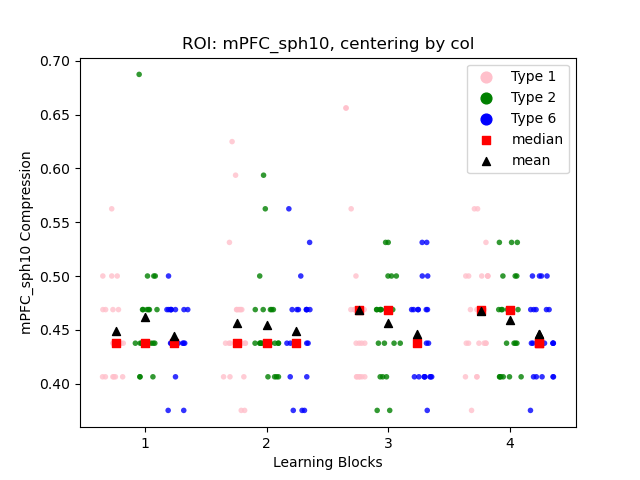
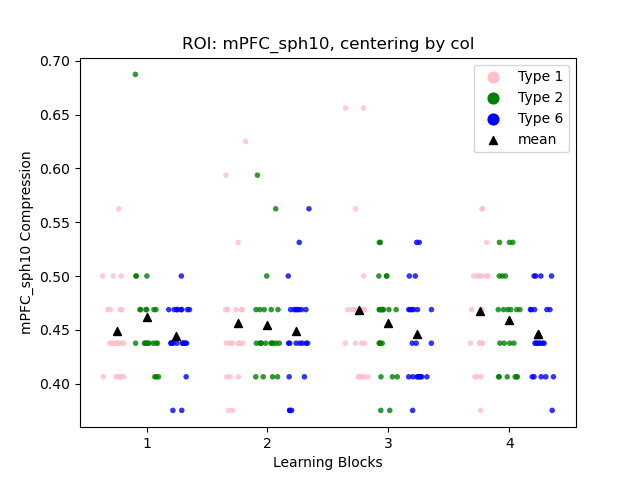
change code: rm median

diff --git a/pca.py b/pca.py
@@ -249,7 +249,7 @@ def compression_execute(roi, subs, runs, tasks, num_processes, centering_by):
         q1, md, q3 = np.percentile(per_type_data, [25,50,75])
         mean = np.mean(per_type_data)
         std = np.std(per_type_data)
-        median_obj = ax.scatter(position, md, marker='s', color='red', s=33, zorder=3)
+        # median_obj = ax.scatter(position, md, marker='s', color='red', s=33, zorder=3)
         mean_obj = ax.scatter(position, mean, marker='^', color='k', s=33, zorder=3)
         
         # print out stats
@@ -262,7 +262,7 @@ def compression_execute(roi, subs, runs, tasks, num_processes, centering_by):
             final_run_data.append(per_type_data)
         
     # hacky way getting legend
-    ax.scatter(position, md, marker='s', color='red', s=33, zorder=3, label='median')
+    # ax.scatter(position, md, marker='s', color='red', s=33, zorder=3, label='median')
     ax.scatter(position, mean, marker='^', color='k', s=33, zorder=3, label='mean')
     plt.legend()
     ax.set_xlabel('Learning Blocks')
@@ -346,7 +346,7 @@ def mixed_effects_analysis(roi, centering_by):
 if __name__ == '__main__':    
     root_path = '/home/ken/projects/brain_data'
     glm_path = 'glm_trial-estimate'
-    roi = 'RHLOC'
+    roi = 'mPFC_sph10'
     num_subs = 23
     num_types = 3
     dataType = 'beta'
@@ -360,21 +360,21 @@ if __name__ == '__main__':
     num_repetitions_per_run = 4
     smooth_beta = 2
     num_processes = 70
-    centering_by = 'row'
+    centering_by = 'col'
     if dataType == 'beta':
         # ignore `_rp*_fb` conditions, the remaining are `_rp*` conditions.
         conditions = [f'{i:04d}' for i in range(1, num_conditions, 2)]
         num_conditions = len(conditions)
     
-    compression_execute(
-        roi=roi, 
-        subs=subs, 
-        runs=runs, 
-        tasks=tasks, 
-        num_processes=num_processes,
-        centering_by=centering_by
-    )
+    # compression_execute(
+    #     roi=roi, 
+    #     subs=subs, 
+    #     runs=runs, 
+    #     tasks=tasks, 
+    #     num_processes=num_processes,
+    #     centering_by=centering_by
+    # )
     
-    # mixed_effects_analysis(roi=roi, centering_by=centering_by)
+    mixed_effects_analysis(roi=roi, centering_by=centering_by)
 
     
